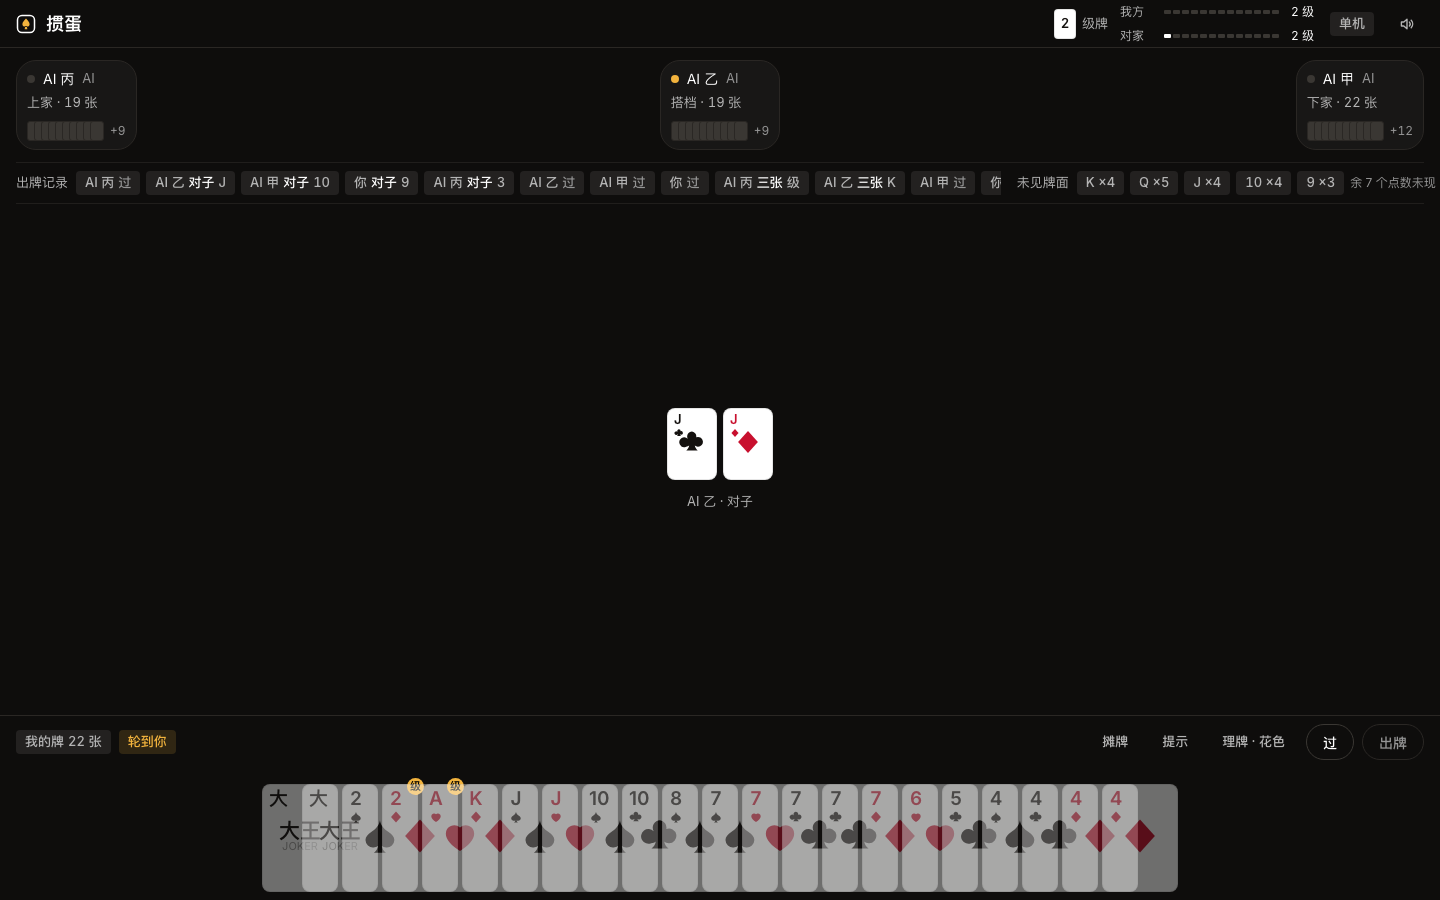
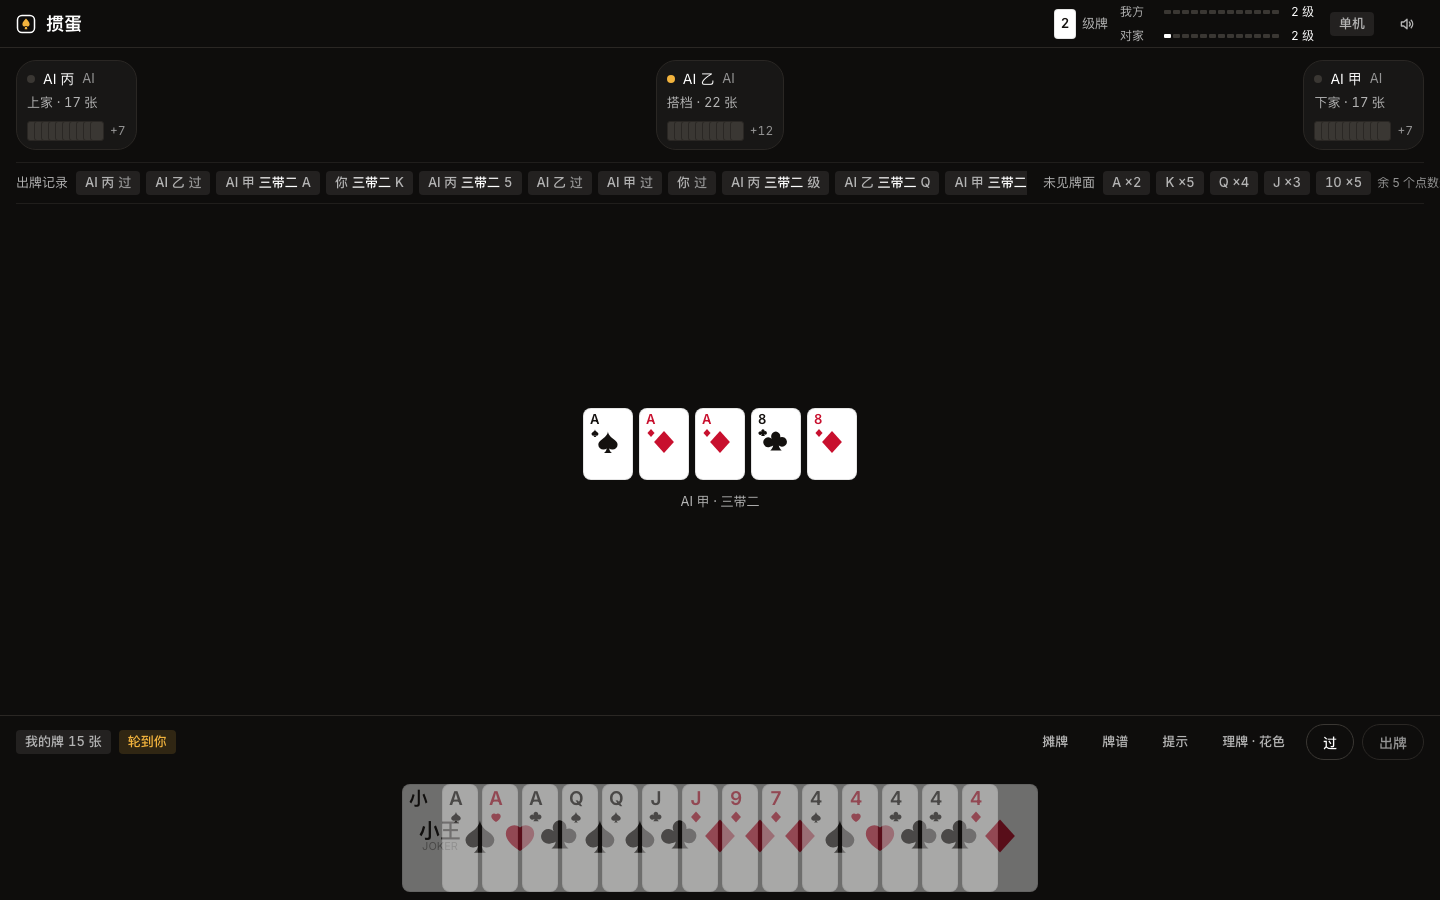
feat(ui): 牌谱——这一局每一手出的真实牌面
出牌记录条只写「谁出了什么牌型」，复盘算账时看不到具体是哪几张。
操作条加「牌谱」按钮，打开面板逐手列出：序号、座位、牌型、真实牌面，
过牌也记一笔。

牌谱要还原「当时打的是哪几张」——牌已经离手，所以新增 cardFromId(id)
从牌 id 反解整张牌（普通牌与王都支持），配 2 条单测。

桌面与手机都能用：手机上面板全屏、牌面自动换行。顺手修了两个布局问题：
打开面板时页面横向溢出 5px（表格根节点加 overflow-x-hidden）、
面板用 grid 居中导致 max-w-full 失效（改 flex 居中 + fixed 覆盖层）。

验收：120 tests 全绿；inspect 1440/768/390 均 0 FAIL 0 WARN，lint 0 FAIL；
截图新增 docs/screenshots/08-play-history.png。

diff --git a/src/ui/PlayHistory.tsx b/src/ui/PlayHistory.tsx
@@ -1,0 +1,97 @@
+import { useEffect } from 'react'
+import { CardFace } from './CardFace'
+import { cardFromId, RANK_LABEL } from '../core/cards'
+import type { GameState } from '../core/engine'
+
+const COMBO_LABEL: Record<number, string> = {
+  0: '单张', 1: '对子', 2: '三张', 3: '三带二', 4: '顺子', 5: '连对', 6: '钢板',
+  7: '炸弹', 8: '同花顺', 9: '天炸',
+}
+
+const FINISH_LABEL = ['头游', '二游', '三游', '四游']
+
+/**
+ * 牌谱：这一局每一手出的真实牌面。
+ * 出牌记录条只写「谁出了什么牌型」，这里能看清是哪几张——复盘、算账、记错牌都靠它。
+ */
+export function PlayHistory({ st, onClose }: { st: GameState; onClose: () => void }) {
+  useEffect(() => {
+    const onKey = (e: KeyboardEvent) => {
+      if (e.key === 'Escape') onClose()
+    }
+    window.addEventListener('keydown', onKey)
+    return () => window.removeEventListener('keydown', onKey)
+  }, [onClose])
+
+  const finished = st.players
+    .filter((p) => p.finishOrder !== null)
+    .sort((a, b) => a.finishOrder! - b.finishOrder!)
+
+  return (
+    <div
+      className="fixed inset-0 z-30 flex items-center justify-center overflow-hidden bg-ground/85 px-4"
+      onClick={onClose}
+      data-testid="play-history"
+    >
+      <div
+        className="panel flex max-h-[78vh] w-[520px] max-w-full flex-col p-5"
+        onClick={(e) => e.stopPropagation()}
+      >
+        <div className="flex items-center gap-3">
+          <h2 className="text-[18px] font-semibold text-ink">牌谱</h2>
+          <span className="text-[13px] text-muted">这一局 {st.log.length} 手</span>
+          <button className="btn btn-secondary ml-auto" onClick={onClose} data-testid="play-history-close">
+            关闭
+          </button>
+        </div>
+
+        {finished.length > 0 && (
+          <div className="mt-2 flex flex-wrap items-center gap-1.5 text-[13px] text-muted">
+            {finished.map((p) => (
+              <span key={p.seat} className="chip">
+                {p.name}
+                <span className="text-ink">{FINISH_LABEL[p.finishOrder!]}</span>
+              </span>
+            ))}
+          </div>
+        )}
+
+        {st.log.length === 0 ? (
+          <p className="mt-6 text-[13px] text-faint">这一局还没有人出牌</p>
+        ) : (
+          <ol className="mt-3 flex min-h-0 flex-1 flex-col gap-1.5 overflow-y-auto pr-1">
+            {st.log.map((e, i) => {
+              const cards = e.ids.map(cardFromId)
+              return (
+                <li key={i} className="flex shrink-0 items-start gap-2 overflow-hidden border-b border-rule pb-1.5">
+                  <span className="num w-7 shrink-0 pt-1 text-[12px] text-faint">{i + 1}</span>
+                  <span className="w-16 shrink-0 pt-1 text-[13px] text-muted">{st.players[e.seat]!.name}</span>
+                  {e.combo === null ? (
+                    <span className="pt-1 text-[13px] text-faint">过</span>
+                  ) : (
+                    <>
+                      <span className="w-16 shrink-0 pt-1 text-[13px] text-ink">
+                        {COMBO_LABEL[e.combo.type] ?? ''}
+                        {e.combo.type !== 9 && (
+                          <span className="num text-muted">
+                            {' '}
+                            {e.combo.rank === 15 ? '级牌' : (RANK_LABEL[e.combo.rank] ?? '')}
+                          </span>
+                        )}
+                      </span>
+                      <span className="flex min-w-0 flex-1 flex-wrap items-end gap-1">
+                        {cards.map((c) => (
+                          <CardFace key={c.id} card={c} size="xs" />
+                        ))}
+                      </span>
+                    </>
+                  )}
+                </li>
+              )
+            })}
+          </ol>
+        )}
+      </div>
+    </div>
+  )
+}

diff --git a/src/ui/Table.tsx b/src/ui/Table.tsx
@@ -11,6 +11,7 @@ import { teamOf } from '../core/engine'
 import { aiMove } from '../core/ai'
 import { isMuted, playSound, toggleMute } from './sound'
 import { TributePanel } from './TributePanel'
+import { PlayHistory } from './PlayHistory'
 import { canAntiTribute } from '../core/engine'
 
 const COMBO_LABEL: Record<number, string> = {
@@ -148,6 +149,7 @@ export function Table() {
   const [selected, setSelected] = useState<Set<string>>(new Set())
   const [handMode, setHandMode] = useState<'rank' | 'suit'>('rank')
   const [handView, setHandView] = useState<'row' | 'grid'>('row')
+  const [showHistory, setShowHistory] = useState(false)
   const [hint, setHint] = useState<string | null>(null)
   const [fx, setFx] = useState<0 | 7 | 9>(0)
   const [mute, setMute] = useState(isMuted())
@@ -274,7 +276,7 @@ export function Table() {
     : null
 
   return (
-    <div className="flex h-full flex-col bg-ground">
+    <div className="flex h-full flex-col overflow-x-hidden bg-ground">
       {/* 顶栏：产品标记 · 级牌进度 · 范围 */}
       <header className="flex h-12 shrink-0 items-center gap-2.5 border-b border-line px-4">
         <Mark />
@@ -358,6 +360,10 @@ export function Table() {
             {st.phase === 'ended' && (
               <EndOverlay onRematch={useStore.getState().rematch} onLobby={useStore.getState().backToLobby} />
             )}
+
+            {showHistory && (
+              <PlayHistory st={st} onClose={() => setShowHistory(false)} />
+            )}
           </div>
       </main>
 
@@ -390,6 +396,14 @@ export function Table() {
               data-testid="hand-view"
             >
               {handView === 'row' ? '摊牌' : '收牌'}
+            </button>
+            <button
+              className="btn btn-ghost btn-sm"
+              onClick={() => setShowHistory(true)}
+              title="这一局每一手出的真实牌面"
+              data-testid="play-log"
+            >
+              牌谱
             </button>
             <button
               className="btn btn-ghost btn-sm"

diff --git a/src/core/cards.test.ts b/src/core/cards.test.ts
@@ -1,5 +1,6 @@
 import { describe, expect, it } from 'vitest'
-import { RANK, buildDeck, cardIdToRank, deal, levelLabel, levelToRank, newShuffledDeck, sortBySuitGroups, sortCards } from './cards'
+import { RANK, buildDeck, cardIdToRank, deal, levelLabel, levelToRank, newShuffledDeck, sortBySuitGroups, sortCards, cardFromId,
+} from './cards'
 import type { Card } from './cards'
 
 describe('buildDeck', () => {
@@ -176,6 +177,20 @@ describe('deal', () => {
       for (let i = 1; i < h.length; i++) {
         expect(h[i - 1].rank).toBeGreaterThanOrEqual(h[i].rank)
       }
+    }
+  })
+})
+
+describe('cardFromId（牌 id 还原整张牌）', () => {
+  it('普通牌、王都能从 id 还原', () => {
+    expect(cardFromId('s14-0')).toEqual({ id: 's14-0', rank: 14, suit: 0 })
+    expect(cardFromId('h9-1')).toEqual({ id: 'h9-1', rank: 9, suit: 1 })
+    expect(cardFromId('sj-0')).toEqual({ id: 'sj-0', rank: RANK.SJ, suit: -1 })
+    expect(cardFromId('bj-1')).toEqual({ id: 'bj-1', rank: RANK.BJ, suit: -1 })
+  })
+  it('和 cardIdToRank 一致', () => {
+    for (const id of ['s3-0', 'd10-1', 'c13-0', 'h2-1']) {
+      expect(cardFromId(id).rank).toBe(cardIdToRank(id))
     }
   })
 })

diff --git a/src/core/cards.ts b/src/core/cards.ts
@@ -102,6 +102,14 @@ export function levelLabel(level: number): string {
   return RANK_LABEL[level] ?? String(level)
 }
 
+/** 从牌 id 反解整张牌（"s14-0" → 黑桃 A）。牌谱要还原当时打的是哪几张。 */
+export function cardFromId(id: string): Card {
+  if (id.startsWith('sj-')) return { id, rank: RANK.SJ, suit: -1 }
+  if (id.startsWith('bj-')) return { id, rank: RANK.BJ, suit: -1 }
+  const suit = SUIT_ABBR.indexOf(id[0] ?? 'x')
+  return { id, rank: Number(id.slice(1, id.lastIndexOf('-'))), suit: suit < 0 ? 0 : suit }
+}
+
 /** 从牌 id 反解点数（"s14-0" → 14，"sj-0" → 16，"bj-0" → 17）。 */
 export function cardIdToRank(id: string): number {
   if (id.startsWith('sj-')) return RANK.SJ

diff --git a/ralph/LOG.md b/ralph/LOG.md
@@ -158,3 +158,14 @@
 - 验收：118 tests 全绿（新增 3 条下游规则用例 + 2 条记牌用例）；
   真浏览器单机与 P2P 双页跑通、无 console 错误；inspect 0 FAIL 0 WARN，lint 0 FAIL。
 - AI 单步耗时 ~2.2ms（记牌把牌 id→点数做了缓存），牌局节奏不受影响。
+
+## S15 牌谱（这一局每手出的真实牌面）done
+- 出牌记录条只写「谁出了什么牌型」，复盘时看不到具体是哪几张——补一个**牌谱**面板：
+  操作条上「牌谱」按钮打开，逐手列出序号、座位、牌型、真实牌面，过牌也记一笔。
+- 牌谱要还原「当时打的是哪几张」：牌已经离开手牌了，所以新增 `cardFromId(id)`
+  （从 id 反解整张牌，普通牌与王都支持），配 2 条单测。
+- 桌面与手机都能用：手机上面板全屏、牌面自动换行；顺手修了两个布局问题——
+  打开面板时页面横向溢出 5px（表格根节点加 overflow-x-hidden）、
+  面板用 grid 居中导致 max-w-full 失效（改 flex 居中 + fixed 覆盖层）。
+- 验收：120 tests 全绿；inspect 1440/768/390 均 0 FAIL 0 WARN，lint 0 FAIL；
+  截图新增 docs/screenshots/08-play-history.png。
